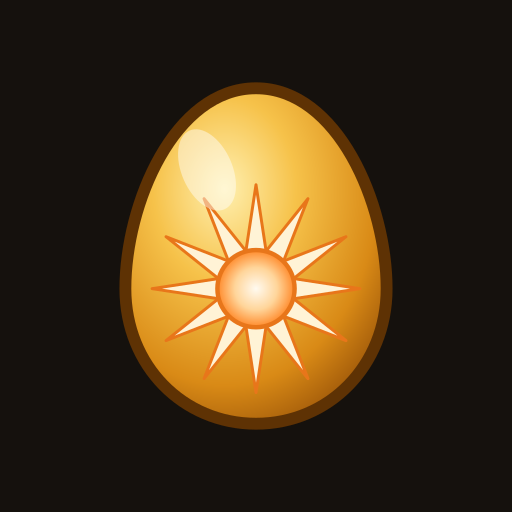
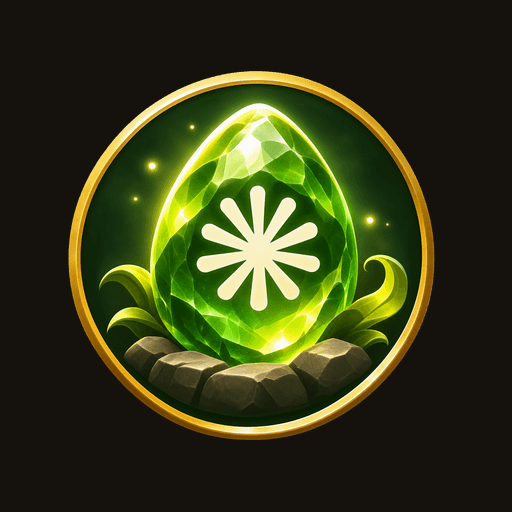
Branding: Emerald Egg replaces the golden egg
- Source artwork from the supplied package kept in brand/ (master 1254 px);
  every size regenerated by scripts/make-icons.ts
- 16 px uses a simplified Emerald Egg (gold ring, egg, cream sun, no rocks or
  facets) since the full artwork blurs at that size; 32 px and up use the artwork
- favicon.ico with 16/32/48 entries (5.6 KB vs 157 KB in the package),
  apple-touch-icon and maskable icon on an opaque background, social image updated
- Icon declarations trimmed to .ico + 16/32 PNG + apple; 192/512 stay in the
  manifest; obsolete golden SVG and duplicate 180 px file removed
- docs/comparaison-favicon.png: old vs new at 16, 32, 48 and 512 px
- Fix: scripts/check-links.ts was not a module (typecheck error)

diff --git a/scripts/make-icons.ts b/scripts/make-icons.ts
@@ -1,25 +1,32 @@
-// Renders the brand SVGs (public/brand) into favicons, app icons and the social preview image.
+// Builds every favicon, app icon and the social preview from the Emerald Egg sources in brand/:
+//  - brand/emerald-egg-master.png (supplied artwork, 1254 px) for 32 px and up;
+//  - brand/emerald-egg-small.svg (same design without rocks, leaves and facets) for 16 px,
+//    where the full artwork blurs into a green blob.
 // node scripts/make-icons.ts   (uses sharp, installed with Next.js)
-import { readFileSync, writeFileSync } from 'node:fs';
+import { readFileSync, rmSync, writeFileSync } from 'node:fs';
 import sharp from 'sharp';
 import { BRAND } from '../src/brand.ts';
 
-const full = readFileSync('public/brand/logo.svg');
-const small = readFileSync('public/brand/logo-small.svg');
-const png = (svg: Buffer, size: number) => sharp(svg, { density: 384 }).resize(size, size).png({ compressionLevel: 9 }).toBuffer();
+const master = readFileSync('brand/emerald-egg-master.png');
+const small = readFileSync('brand/emerald-egg-small.svg');
+const BG = '#15110d'; // site background, also the manifest colours
 
-const sizes = [16, 32, 48, 96, 180, 192, 512];
+const fromMaster = (size: number) => sharp(master).resize(size, size, { kernel: 'lanczos3' }).png({ compressionLevel: 9, effort: 10 }).toBuffer();
+const icon = (size: number) => (size <= 16 ? sharp(small, { density: 384 }).resize(size, size).png({ compressionLevel: 9 }).toBuffer() : fromMaster(size));
+/** Mark centred on an opaque square: iOS and Android masks would turn transparent corners black. */
+const onBackground = async (size: number, scale: number) => sharp({ create: { width: size, height: size, channels: 4, background: BG } })
+  .composite([{ input: await fromMaster(Math.round(size * scale)), gravity: 'center' }]).png({ compressionLevel: 9, effort: 10 }).toBuffer();
+
 const out: Record<number, Buffer> = {};
-for (const s of sizes) {
-  out[s] = await png(s <= 48 ? small : full, s); // the detailed egg turns to mush below 48 px
+for (const s of [16, 32, 48, 96, 192, 512]) {
+  out[s] = await icon(s);
   writeFileSync(`public/favicon-${s}x${s}.png`, out[s]);
 }
-writeFileSync('public/apple-touch-icon.png', out[180]);
-// maskable icon: the mark inside the 80 % safe zone on the brand background
-writeFileSync('public/icon-maskable-512.png', await sharp({ create: { width: 512, height: 512, channels: 4, background: '#15110d' } })
-  .composite([{ input: await png(full, 380), gravity: 'center' }]).png().toBuffer());
+rmSync('public/favicon-180x180.png', { force: true }); // same file as apple-touch-icon.png: not declared twice
+writeFileSync('public/apple-touch-icon.png', await onBackground(180, 0.86));
+writeFileSync('public/icon-maskable-512.png', await onBackground(512, 0.76)); // inside the 80 % safe zone
 
-// favicon.ico = PNG-compressed entries (16, 32, 48), supported by every current browser
+// favicon.ico: PNG entries 16 (simplified), 32 and 48 (bigger entries only add weight)
 const ico = [16, 32, 48];
 const header = Buffer.alloc(6 + 16 * ico.length);
 header.writeUInt16LE(0, 0); header.writeUInt16LE(1, 2); header.writeUInt16LE(ico.length, 4);
@@ -32,15 +39,15 @@ ico.forEach((s, i) => {
 });
 writeFileSync('public/favicon.ico', Buffer.concat([header, ...ico.map((s) => out[s])]));
 
-// social preview 1200×630: night background, egg, name and tagline (system sans-serif: rendered server-side)
+// social preview 1200×630: night background, the egg, name and tagline (system fonts: rendered server-side)
 const esc = (s: string) => s.replace(/&/g, '&amp;').replace(/</g, '&lt;');
 const og = Buffer.from(`<svg xmlns="http://www.w3.org/2000/svg" width="1200" height="630">
-  <defs><radialGradient id="g" cx="30%" cy="45%" r="80%"><stop offset="0" stop-color="#3a2a17"/><stop offset="1" stop-color="#15110d"/></radialGradient></defs>
+  <defs><radialGradient id="g" cx="27%" cy="50%" r="75%"><stop offset="0" stop-color="#1f3a14"/><stop offset="1" stop-color="#15110d"/></radialGradient></defs>
   <rect width="1200" height="630" fill="url(#g)"/>
-  <text x="520" y="290" font-family="Arial Black, Arial, sans-serif" font-weight="900" font-size="56" fill="#ffe2a6">${esc(BRAND.name.toUpperCase())}</text>
-  <text x="522" y="360" font-family="Arial, sans-serif" font-size="32" fill="#f4ecdc">Quêtes, succès, Dofus et builds</text>
-  <text x="522" y="404" font-family="Arial, sans-serif" font-size="32" fill="#f4ecdc">pour progresser dans DOFUS</text>
-  <text x="522" y="520" font-family="Arial, sans-serif" font-size="22" fill="#c2b296">Site de fan gratuit · non affilié à Ankama</text>
+  <text x="530" y="290" font-family="Arial Black, Arial, sans-serif" font-weight="900" font-size="56" fill="#ffe2a6">${esc(BRAND.name.toUpperCase())}</text>
+  <text x="532" y="360" font-family="Arial, sans-serif" font-size="32" fill="#f4ecdc">Quêtes, succès, Dofus et builds</text>
+  <text x="532" y="404" font-family="Arial, sans-serif" font-size="32" fill="#f4ecdc">pour progresser dans DOFUS</text>
+  <text x="532" y="520" font-family="Arial, sans-serif" font-size="22" fill="#c2b296">Site de fan gratuit · non affilié à Ankama</text>
 </svg>`);
-writeFileSync('public/og-image.png', await sharp(og).composite([{ input: await png(full, 400), left: 80, top: 115 }]).png({ compressionLevel: 9 }).toBuffer());
+writeFileSync('public/og-image.png', await sharp(og).composite([{ input: await fromMaster(420), left: 70, top: 105 }]).png({ compressionLevel: 9, effort: 10 }).toBuffer());
 console.log('icons and social image written to public/');

diff --git a/app/layout.tsx b/app/layout.tsx
@@ -21,13 +21,10 @@ export const metadata: Metadata = {
   alternates: { canonical: '/' },
   icons: {
     icon: [
+      // one entry per size: .ico for older browsers, PNG for the tab; 192/512 live in the manifest
       { url: '/favicon.ico', sizes: '16x16 32x32 48x48' },
       { url: '/favicon-16x16.png', sizes: '16x16', type: 'image/png' },
       { url: '/favicon-32x32.png', sizes: '32x32', type: 'image/png' },
-      { url: '/favicon-48x48.png', sizes: '48x48', type: 'image/png' },
-      { url: '/favicon-96x96.png', sizes: '96x96', type: 'image/png' },
-      { url: '/favicon-192x192.png', sizes: '192x192', type: 'image/png' },
-      { url: '/brand/logo.svg', type: 'image/svg+xml' },
     ],
     apple: [{ url: '/apple-touch-icon.png', sizes: '180x180' }],
   },

diff --git a/app/a-propos/page.tsx b/app/a-propos/page.tsx
@@ -40,7 +40,7 @@ export default function Page() {
           <h2 className="mb-1 font-display text-base text-text">Gratuit</h2>
           <p>Le suivi des quêtes, des succès, les builds et les personnages restent gratuits. Le site pourra afficher de la publicité sur les pages de lecture, jamais au milieu des outils.</p>
         </section>
-        <p className="text-xs text-faint">{BRAND.disclaimer} Le logo (un œuf doré et un soleil à douze rayons) est une création originale.</p>
+        <p className="text-xs text-faint">{BRAND.disclaimer} Le logo (un œuf d’émeraude et un soleil crème dans un anneau doré) est propre au site.</p>
       </article>
     </div>
   );

diff --git a/scripts/check-links.ts b/scripts/check-links.ts
@@ -2,6 +2,7 @@
 // on those pages. node scripts/check-links.ts http://localhost:3000
 // The sitemap holds absolute public URLs (NEXT_PUBLIC_SITE_URL); they are re-rooted on the tested server.
 const BASE = process.argv[2] ?? 'http://localhost:3000';
+export {}; // a module: top-level await, and no clash with DOM globals such as `status`
 const sitemap = await (await fetch(`${BASE}/sitemap.xml`)).text();
 const pages = [...sitemap.matchAll(/<loc>([^<]+)<\/loc>/g)].map((m) => new URL(m[1]).pathname);
 const problems: string[] = [];

diff --git a/docs/LANCEMENT_PUBLIC.md b/docs/LANCEMENT_PUBLIC.md
@@ -4,15 +4,16 @@
 
 ## 1. Marque et icônes ✅
 
-- **Logo original** (`public/brand/logo.svg`) : un œuf doré et, au centre, un soleil crème et orange à **douze rayons**, un par Dieu des Douze. ⚠ **Ce n'est pas le logo de Claude.** Le symbole de Claude est une marque d'Anthropic, et l'intégrer suggérerait un partenariat ou une approbation. Je ne l'ai donc pas reproduit.
-- **Version simplifiée** (`logo-small.svg`) pour 16 à 48 px : six rayons épais et un contour renforcé, pour rester lisible en tout petit.
+- **Logo : l'œuf d'émeraude** fourni (`brand/emerald-egg-master.png`, 1254 px) : un œuf d'émeraude facetté, un soleil crème au centre, un anneau doré sur un fond vert profond. Il a remplacé l'œuf doré du premier jet (comparaison : `docs/comparaison-favicon.png`).
+- **Version simplifiée** (`brand/emerald-egg-small.svg`) pour **16 px seulement** : même anneau, même œuf, même soleil, sans rochers, feuilles ni facettes, qui deviennent du bruit à cette taille. À partir de 32 px, c'est l'illustration fournie, réduite.
 - **Fichiers générés** par `node scripts/make-icons.ts`, avec sharp, déjà installé avec Next :
-  - `favicon.ico` (16, 32 et 48 px réunis dans un seul fichier) ;
-  - `favicon-16x16`, `32`, `48`, `96`, `180` et `192`, `favicon-512x512.png`, `apple-touch-icon.png` (180 px) ;
+  - `favicon.ico` (16, 32 et 48 px réunis dans un seul fichier, 5,6 Ko contre 157 Ko pour celui du paquet, qui en contenait six) ;
+  - `favicon-16x16`, `32`, `48`, `96` et `192`, `favicon-512x512.png` ;
+  - `apple-touch-icon.png` (180 px, sur fond opaque pour qu'iOS n'affiche pas de coins noirs) ;
   - `icon-maskable-512.png` : version adaptée aux icônes d'applications Android ;
   - `og-image.png` (1200 × 630) : l'image affichée quand on partage un lien sur les réseaux sociaux.
 - **Intégration** : les icônes et le partage social sont déclarés dans les métadonnées de la page, avec un manifeste (`/manifest.webmanifest`) et la couleur d'interface `#15110d`.
-- ⛔ L'image de référence annoncée n'est pas arrivée. Dès que tu l'envoies, j'adapte le dessin et je relance `make-icons`.
+- **Déclarations** : seulement `favicon.ico`, les PNG de 16 et 32 px et l'icône Apple. Les tailles 192 et 512 sont dans le manifeste. L'ancien SVG doré a été supprimé.
 
 ## 2. Audit SEO et corrections
 
